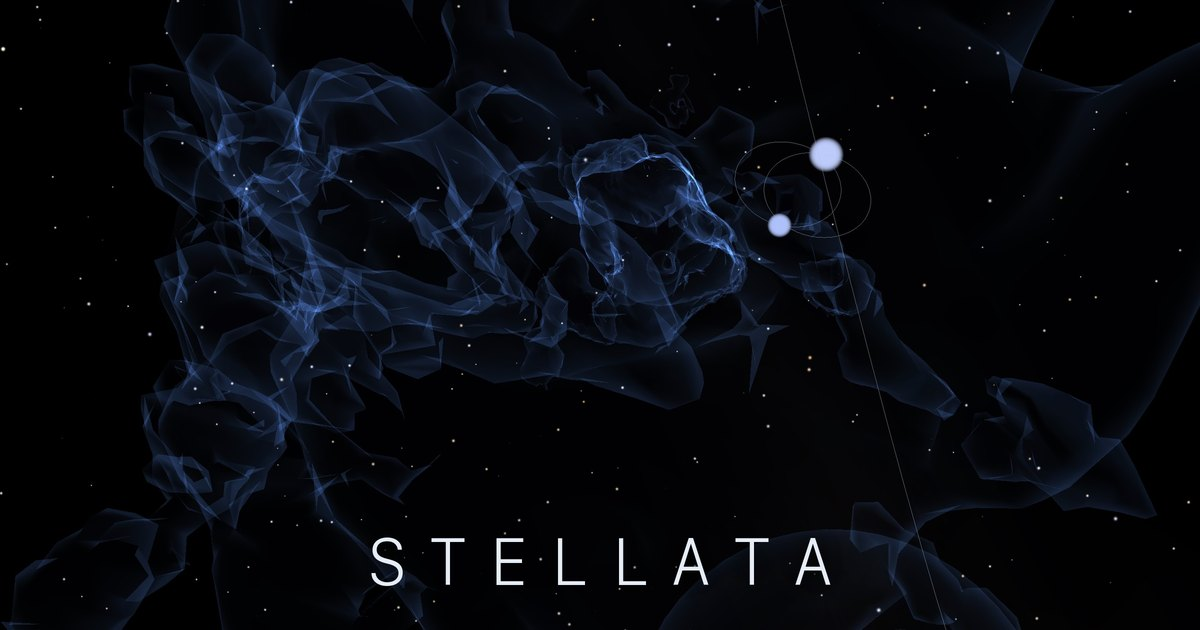
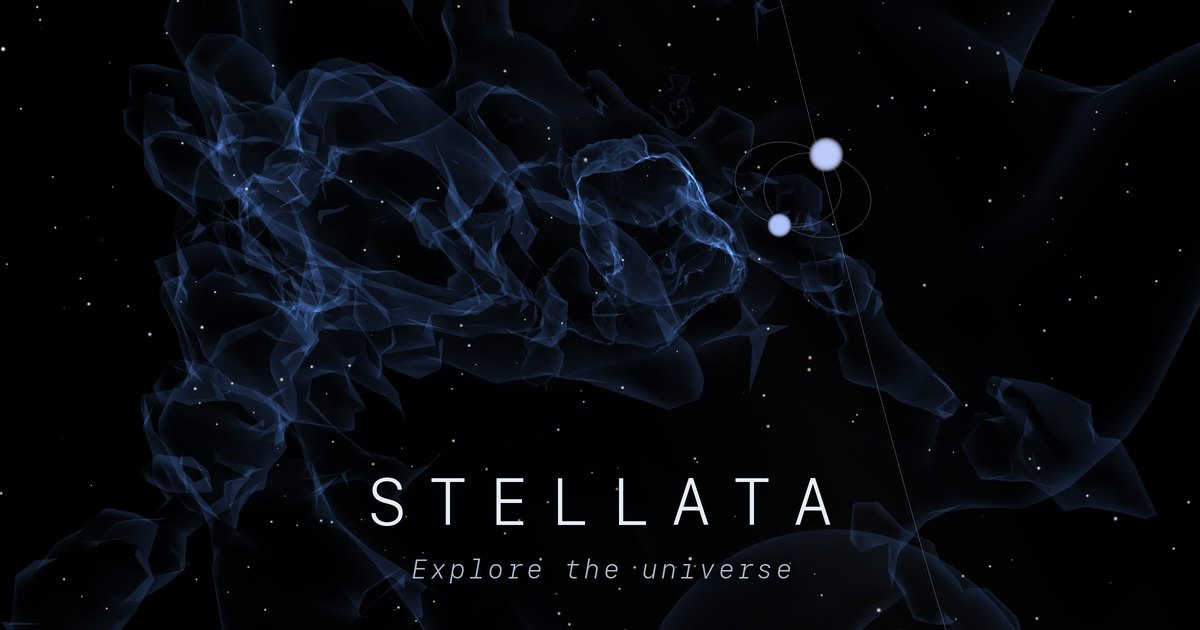
OG image: raise wordmark, add italic 'Explore the universe' tagline
Move STELLATA up into the lower band and add the tagline below it in
italic SF Mono (smaller, dimmed). build-og.py defaults updated so
pnpm run build:og reproduces the shipped card.

Changed region(s): [[0.3083, 0.754, 0.7092, 0.9349], [0.4625, 0.754, 0.5242, 0.8444], [0.6167, 0.754, 0.7092, 0.8143]]

diff --git a/scripts/og/build-og.py b/scripts/og/build-og.py
@@ -17,13 +17,17 @@ FONT_CANDIDATES = [
     "/System/Library/Fonts/SFNSMono.ttf",
     "/System/Library/Fonts/Menlo.ttc",
 ]
+ITALIC_FONT_CANDIDATES = [
+    "/System/Library/Fonts/SFNSMonoItalic.ttf",
+    *FONT_CANDIDATES,
+]
 
 FG = (230, 237, 247, 255)  # --fg  #e6edf7
 FG_DIM = (170, 182, 200, 255)
 
 
-def load_font(px: int) -> ImageFont.FreeTypeFont:
-    for path in FONT_CANDIDATES:
+def load_font(px: int, italic: bool = False) -> ImageFont.FreeTypeFont:
+    for path in ITALIC_FONT_CANDIDATES if italic else FONT_CANDIDATES:
         if Path(path).exists():
             return ImageFont.truetype(path, px)
     raise SystemExit("No monospace font found (SF Mono / Menlo).")
@@ -67,9 +71,9 @@ def main() -> None:
     ap = argparse.ArgumentParser()
     ap.add_argument("--size", type=int, default=66, help="wordmark cap size (px, 1x)")
     ap.add_argument("--tracking", type=float, default=0.30, help="letter-spacing (em)")
-    ap.add_argument("--y", type=int, default=560, help="wordmark centre y (1x, of 630)")
-    ap.add_argument("--tagline", default="")
-    ap.add_argument("--tagline-size", type=int, default=21)
+    ap.add_argument("--y", type=int, default=500, help="wordmark centre y (1x, of 630)")
+    ap.add_argument("--tagline", default="Explore the universe")
+    ap.add_argument("--tagline-size", type=int, default=27)
     ap.add_argument("--out", default=str(ROOT / "public" / "og-image.jpg"))
     args = ap.parse_args()
 
@@ -83,11 +87,11 @@ def main() -> None:
     )
 
     if args.tagline:
-        tag_font = load_font(args.tagline_size * SS)
-        tag_y = args.y + args.size * 0.62 + args.tagline_size * 0.9
+        tag_font = load_font(args.tagline_size * SS, italic=True)
+        tag_y = args.y + args.size * 0.62 + args.tagline_size * 1.0
         base = stamp(
             base, args.tagline, tag_font,
-            0.18 * args.tagline_size * SS, OUT_W * SS / 2, tag_y * SS, FG_DIM,
+            0.10 * args.tagline_size * SS, OUT_W * SS / 2, tag_y * SS, FG_DIM,
         )
 
     out = base.resize((OUT_W, OUT_H), Image.LANCZOS).convert("RGB")
